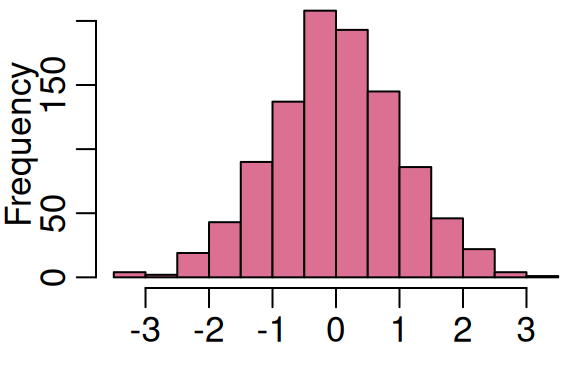
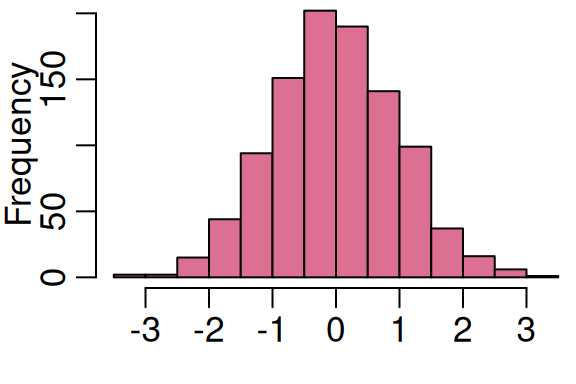
test2

diff --git a/index.html b/index.html
@@ -5,7 +5,7 @@
   <meta name="generator" content="pandoc">
   <meta name="author" content="Nicole Kinlock" />
   <meta name="dcterms.date" content="2025-06-11" />
-  <title>R mini course TEST</title>
+  <title>R mini course TEST2</title>
   <meta name="apple-mobile-web-app-capable" content="yes">
   <meta name="apple-mobile-web-app-status-bar-style" content="black-translucent">
   <meta name="viewport" content="width=device-width, initial-scale=1.0, maximum-scale=1.0, user-scalable=no, minimal-ui">
@@ -130,7 +130,7 @@
     <div class="slides">
 
 <section id="title-slide">
-  <h1 class="title">R mini course TEST</h1>
+  <h1 class="title">R mini course TEST2</h1>
   <h2 class="author">Nicole Kinlock</h2>
   <h3 class="date">June 11, 2025</h3>
 </section>
@@ -671,7 +671,7 @@ value of these elements?</p></li>
 function</p>
 <div class="sourceCode" id="cb65"><pre class="sourceCode r"><code class="sourceCode r"><span id="cb65-1"><a href="#cb65-1" aria-hidden="true" tabindex="-1"></a>norm <span class="ot">&lt;-</span> <span class="fu">rnorm</span>(<span class="at">n =</span> <span class="dv">1000</span>, <span class="at">mean =</span> <span class="dv">0</span>, <span class="at">sd =</span> <span class="dv">1</span>)</span>
 <span id="cb65-2"><a href="#cb65-2" aria-hidden="true" tabindex="-1"></a><span class="fu">head</span>(norm)</span></code></pre></div>
-<pre><code>## [1]  0.8861641 -0.2489742 -1.7741566  1.4745526  1.1570297  0.8432353</code></pre>
+<pre><code>## [1] -1.0836500 -0.5261778  0.3705914 -0.1019659 -0.2773082 -0.9049413</code></pre>
 <p><img src="index_files/figure-revealjs/unnamed-chunk-26-1.png" width="288" /></p>
 </section>
 <section id="your-turn-5" class="slide level2"
@@ -766,9 +766,9 @@ histogram of the sample.</p></li>
 <code>sample()</code> function</p>
 <div class="sourceCode" id="cb68"><pre class="sourceCode r"><code class="sourceCode r"><span id="cb68-1"><a href="#cb68-1" aria-hidden="true" tabindex="-1"></a>x <span class="ot">&lt;-</span> <span class="dv">1</span><span class="sc">:</span><span class="dv">50</span></span>
 <span id="cb68-2"><a href="#cb68-2" aria-hidden="true" tabindex="-1"></a><span class="fu">sample</span>(x, <span class="at">size =</span> <span class="dv">20</span>)  <span class="co"># sample without replacement</span></span></code></pre></div>
-<pre><code>##  [1]  3 32 42 26 14 16 43 35 28  1  2 31 21  4 29 36 15 11 45 18</code></pre>
+<pre><code>##  [1] 26 23 48 40  3 25  2 36  9 34  7  6 50 41 27 16 18 11 46 10</code></pre>
 <div class="sourceCode" id="cb70"><pre class="sourceCode r"><code class="sourceCode r"><span id="cb70-1"><a href="#cb70-1" aria-hidden="true" tabindex="-1"></a><span class="fu">sample</span>(x, <span class="at">size =</span> <span class="dv">20</span>, <span class="at">replace =</span> <span class="cn">TRUE</span>)  <span class="co"># sample with replacement</span></span></code></pre></div>
-<pre><code>##  [1]  2  1 11  2 23 16 14  2  7 44 20 32 50  8  7 23 24 50 12 41</code></pre>
+<pre><code>##  [1] 23 41 49 18 33 48 22 21 24 37 39 19 44 20 11 37 21 37 14 21</code></pre>
 </section>
 <section id="your-turn-8" class="slide level2"
 data-background-color="#b3cde3">
@@ -1674,8 +1674,8 @@ class="sourceCode r"><code class="sourceCode r"><span id="cb185-1"><a href="#cb1
 <span id="cb185-4"><a href="#cb185-4" aria-hidden="true" tabindex="-1"></a>    output.vec[i] <span class="ot">&lt;-</span> x[i] <span class="sc">*</span> <span class="dv">10</span></span>
 <span id="cb185-5"><a href="#cb185-5" aria-hidden="true" tabindex="-1"></a>}</span>
 <span id="cb185-6"><a href="#cb185-6" aria-hidden="true" tabindex="-1"></a>output.vec</span></code></pre></div>
-<pre><code>##  [1]  7.5114531  5.4902849  3.9083699 10.8623299 12.1150292 13.3143443
-##  [7] 11.3995153  0.8978763 12.0780165  2.1260210</code></pre>
+<pre><code>##  [1]  7.65035994  8.57746989 16.36141465  8.39895700  7.53343442  0.08094812
+##  [7]  3.15162026  5.91500495 12.87110914 13.92517123</code></pre>
 </section>
 <section id="how-do-we-save-for-loop-outputs-1" class="slide level2">
 <h2>How do we save for-loop outputs?</h2>
@@ -1691,8 +1691,8 @@ class="sourceCode r"><code class="sourceCode r"><span id="cb187-1"><a href="#cb1
 <span id="cb187-4"><a href="#cb187-4" aria-hidden="true" tabindex="-1"></a>    output.vec[i] <span class="ot">&lt;-</span> x[i] <span class="sc">*</span> <span class="dv">10</span></span>
 <span id="cb187-5"><a href="#cb187-5" aria-hidden="true" tabindex="-1"></a>}</span>
 <span id="cb187-6"><a href="#cb187-6" aria-hidden="true" tabindex="-1"></a>output.vec</span></code></pre></div>
-<pre><code>##  [1]  3.64806158  9.03782921  2.83679823 14.04016806  2.76244785 18.20414756
-##  [7]  8.90670954  9.23140684  0.06322089  0.72076257</code></pre>
+<pre><code>##  [1]  8.149618  9.042688  2.369843  8.940498 14.965342 12.059421 10.447366
+##  [8]  3.213103 11.848466 14.439320</code></pre>
 </section>
 <section id="your-turn-16" class="slide level2"
 data-background-color="#b3cde3">
@@ -1760,7 +1760,7 @@ class="sourceCode r"><code class="sourceCode r"><span id="cb194-1"><a href="#cb1
 <span id="cb194-8"><a href="#cb194-8" aria-hidden="true" tabindex="-1"></a>    }</span>
 <span id="cb194-9"><a href="#cb194-9" aria-hidden="true" tabindex="-1"></a>}</span>
 <span id="cb194-10"><a href="#cb194-10" aria-hidden="true" tabindex="-1"></a>output.vec</span></code></pre></div>
-<pre><code>##  [1]    4    1    1 -100    1    1 -100 -100    4 -100</code></pre>
+<pre><code>##  [1] -100    1    1 -100    1    1    1    9    1    4</code></pre>
 </section>
 <section id="control-flow-statements---break" class="slide level2">
 <h2>Control flow statements - break</h2>
@@ -1835,13 +1835,13 @@ arguments
 <div class="sourceCode" id="cb200"><pre
 class="sourceCode r"><code class="sourceCode r"><span id="cb200-1"><a href="#cb200-1" aria-hidden="true" tabindex="-1"></a>M <span class="ot">&lt;-</span> <span class="fu">matrix</span>(<span class="fu">rnorm</span>(<span class="dv">9</span>), <span class="at">ncol =</span> <span class="dv">3</span>, <span class="at">nrow =</span> <span class="dv">3</span>)</span>
 <span id="cb200-2"><a href="#cb200-2" aria-hidden="true" tabindex="-1"></a>M</span></code></pre></div>
-<pre><code>##             [,1]       [,2]      [,3]
-## [1,]  0.07338132 -0.9516929 -0.578038
-## [2,] -0.12021211 -1.5081028  1.493833
-## [3,] -0.31325197 -1.1734731 -0.934643</code></pre>
+<pre><code>##            [,1]         [,2]      [,3]
+## [1,] -1.0855231 -0.009312799 0.1734507
+## [2,] -0.4884678 -0.363499660 0.9888020
+## [3,]  0.6233131  0.508159121 1.4499068</code></pre>
 <div class="sourceCode" id="cb202"><pre
 class="sourceCode r"><code class="sourceCode r"><span id="cb202-1"><a href="#cb202-1" aria-hidden="true" tabindex="-1"></a><span class="fu">apply</span>(M, <span class="dv">2</span>, median)</span></code></pre></div>
-<pre><code>## [1] -0.1202121 -1.1734731 -0.5780380</code></pre>
+<pre><code>## [1] -0.488467808 -0.009312799  0.988802020</code></pre>
 </section>
 <section id="apply-vs.-for-loop" class="slide level2">
 <h2><code>apply</code> vs. for-loop</h2>
@@ -1852,7 +1852,7 @@ class="sourceCode r"><code class="sourceCode r"><span id="cb204-1"><a href="#cb2
 <span id="cb204-3"><a href="#cb204-3" aria-hidden="true" tabindex="-1"></a>    median.vec[i] <span class="ot">&lt;-</span> <span class="fu">median</span>(M[, i])</span>
 <span id="cb204-4"><a href="#cb204-4" aria-hidden="true" tabindex="-1"></a>}</span>
 <span id="cb204-5"><a href="#cb204-5" aria-hidden="true" tabindex="-1"></a>median.vec</span></code></pre></div>
-<pre><code>## [1] -0.1202121 -1.1734731 -0.5780380</code></pre>
+<pre><code>## [1] -0.488467808 -0.009312799  0.988802020</code></pre>
 </section>
 <section id="apply-family-of-functions" class="slide level2">
 <h2><code>apply</code> family of functions</h2>
@@ -1889,7 +1889,7 @@ class="sourceCode r"><code class="sourceCode r"><span id="cb208-1"><a href="#cb2
 ## [1] 12.3
 ## 
 ## [[3]]
-## [1] 3.100375</code></pre>
+## [1] 5.105347</code></pre>
 </section>
 <section id="useful-links" class="slide level2">
 <h2>Useful links</h2>
@@ -2444,9 +2444,9 @@ observations in each row</p>
 <div class="sourceCode" id="cb251"><pre
 class="sourceCode r"><code class="sourceCode r"><span id="cb251-1"><a href="#cb251-1" aria-hidden="true" tabindex="-1"></a>spp.df.wide[<span class="dv">1</span><span class="sc">:</span><span class="dv">3</span>, ]</span></code></pre></div>
 <pre><code>##   SpeciesA SpeciesB SpeciesC SpeciesD
-## 1 49.06959 83.07043 20.73574 24.52579
-## 2 48.40202 65.36905 20.13689 26.22547
-## 3 50.09242 75.78387 20.52578 24.72197</code></pre>
+## 1 49.06681 81.55219 20.62982 24.10322
+## 2 50.54657 68.30150 20.13821 23.70183
+## 3 52.90892 74.47188 20.63485 25.34096</code></pre>
 <div class="sourceCode" id="cb253"><pre
 class="sourceCode r"><code class="sourceCode r"><span id="cb253-1"><a href="#cb253-1" aria-hidden="true" tabindex="-1"></a><span class="fu">dim</span>(spp.df.wide)</span></code></pre></div>
 <pre><code>## [1] 100   4</code></pre>
@@ -2458,9 +2458,9 @@ format, with only one row per observation (experimental unit)</p>
 <div class="sourceCode" id="cb255"><pre
 class="sourceCode r"><code class="sourceCode r"><span id="cb255-1"><a href="#cb255-1" aria-hidden="true" tabindex="-1"></a>spp.df.long[<span class="dv">1</span><span class="sc">:</span><span class="dv">3</span>, ]</span></code></pre></div>
 <pre><code>##   Species     Mass
-## 1       A 66.64098
-## 2       B 75.87060
-## 3       C 73.08989</code></pre>
+## 1       A 71.12068
+## 2       B 81.11941
+## 3       C 72.60797</code></pre>
 <div class="sourceCode" id="cb257"><pre
 class="sourceCode r"><code class="sourceCode r"><span id="cb257-1"><a href="#cb257-1" aria-hidden="true" tabindex="-1"></a><span class="fu">dim</span>(spp.df.long)</span></code></pre></div>
 <pre><code>## [1] 400   2</code></pre>
@@ -2475,12 +2475,12 @@ class="sourceCode r"><code class="sourceCode r"><span id="cb259-1"><a href="#cb2
 <span id="cb259-5"><a href="#cb259-5" aria-hidden="true" tabindex="-1"></a>                           <span class="at">D =</span> <span class="fu">rnorm</span>(<span class="dv">100</span>, <span class="dv">55</span>, <span class="dv">3</span>))</span>
 <span id="cb259-6"><a href="#cb259-6" aria-hidden="true" tabindex="-1"></a><span class="fu">head</span>(test.df.wide)</span></code></pre></div>
 <pre><code>##          A        B        C        D
-## 1 56.68955 71.04284 45.42085 58.52070
-## 2 62.60548 70.76774 51.61782 57.61679
-## 3 49.93849 83.05699 54.69181 54.16641
-## 4 42.66107 73.48540 50.19038 54.95161
-## 5 46.63581 75.40971 53.05156 57.19263
-## 6 45.40071 72.83677 49.71768 51.48626</code></pre>
+## 1 41.54198 69.67048 51.95734 57.28642
+## 2 64.05022 81.32796 50.33898 50.66510
+## 3 53.59885 73.64329 51.19407 48.25316
+## 4 55.71767 67.86084 49.95766 58.04772
+## 5 62.23250 80.31252 49.84385 48.76677
+## 6 45.66651 81.21135 57.49370 55.96522</code></pre>
 </section>
 <section id="melting-from-wide-to-long-1" class="slide level2">
 <h2>Melting: from wide to long</h2>
@@ -2493,12 +2493,12 @@ class="sourceCode r"><code class="sourceCode r"><span id="cb261-1"><a href="#cb2
 <span id="cb261-4"><a href="#cb261-4" aria-hidden="true" tabindex="-1"></a>                     <span class="at">value.name =</span> <span class="st">&quot;Mass&quot;</span>)</span>
 <span id="cb261-5"><a href="#cb261-5" aria-hidden="true" tabindex="-1"></a><span class="fu">head</span>(test.df.long)</span></code></pre></div>
 <pre><code>##   Species     Mass
-## 1       A 56.68955
-## 2       A 62.60548
-## 3       A 49.93849
-## 4       A 42.66107
-## 5       A 46.63581
-## 6       A 45.40071</code></pre>
+## 1       A 41.54198
+## 2       A 64.05022
+## 3       A 53.59885
+## 4       A 55.71767
+## 5       A 62.23250
+## 6       A 45.66651</code></pre>
 </section>
 <section id="melting-from-wide-to-long-2" class="slide level2">
 <h2>Melting: from wide to long</h2>
